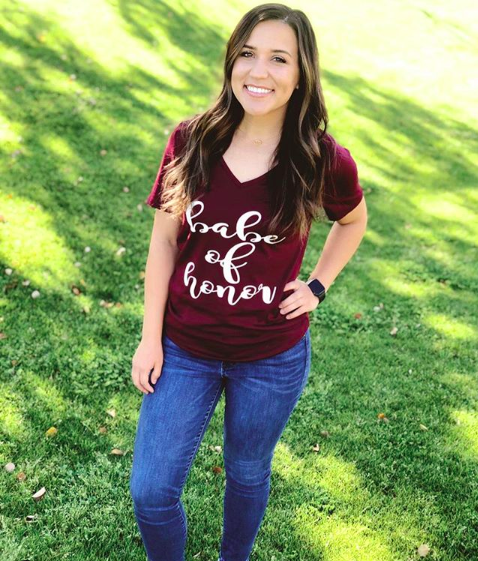
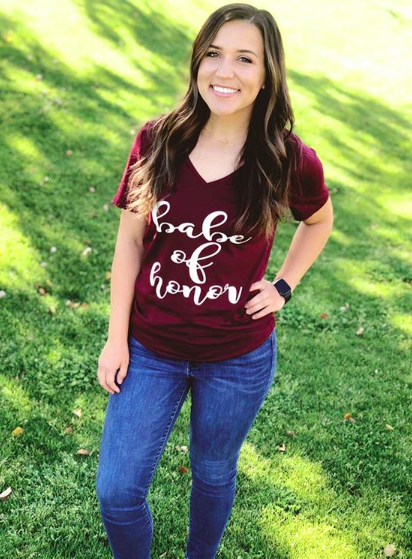
added image overlay

diff --git a/Ellie_main.html b/Ellie_main.html
@@ -160,73 +160,48 @@
       </a>
     </div>
 
-    <!-- Cards -->
-    <div class="row d-flex flex-row mb-4">
-      <div class="col-2">
-        <div class="card border-0 insta-plug">
-          <div class="card-body text-center">
-            <a
-              class="card-title btn"
-              href="https://www.instagram.com/entirely_ellie/"
-              >Follow Us!</a
-            >
-            <p>
-              <img src="/LOGOS/Instagram-Logo copy.png" class="insta-logo" />
-            </p>
+    <!-- Images -->
+    <div class="row d-flex flex-row p-5">
+      <div class="col-4">
+        <div class="c-style">
+          <a href="https://www.instagram.com/entirely_ellie/">
+            <img src="/SHIRTS/Shirt5.png" class="c-image" />
+          </a>
+          <div class="img-overlay">
+            <p class="text">Summer Shirts</p>
           </div>
         </div>
       </div>
       <div class="col-4">
-        <div class="card bg-light text-white c-style1">
-          <img src="/SHIRTS/Shirt5.png" class="card-img" alt="..." />
-          <div class="card-img-overlay">
-            <h5 class="card-title">Card title</h5>
-            <p class="card-text">
-              This is a wider card with supporting text below as a natural
-              lead-in to additional content. This content is a little bit
-              longer.
-            </p>
-            <p class="card-text">Last updated 3 mins ago</p>
+        <div class="c-style">
+          <a href="https://www.instagram.com/entirely_ellie/">
+            <img
+              src="/GIFTS/mug set.png"
+              style="height: 175px; width: auto"
+              class="c-image"
+              alt="..."
+            />
+          </a>
+          <div class="img-overlay">
+            <p class="text">Gifts For a Few</p>
+          </div>
+        </div>
+        <div class="c-style mt-2">
+          <a href="https://www.instagram.com/entirely_ellie/">
+            <img src="/GIFTS/wine glass.png" style="height: 400px; width: auto" class="c-image" alt="..." />
+          </a>
+          <div class="img-overlay">
+            <p class="text">Gifts for One</p>
           </div>
         </div>
       </div>
-      <div class="col-3">
-        <div class="card bg-light text-white c-style2">
-          <img src="/GIFTS/mug set.png" class="card-img" alt="..." />
-          <div class="card-img-overlay">
-            <h5 class="card-title">Card title</h5>
-            <p class="card-text">
-              This is a wider card with supporting text below as a natural
-              lead-in to additional content. This content is a little bit
-              longer.
-            </p>
-            <p class="card-text">Last updated 3 mins ago</p>
-          </div>
-        </div>
-        <div class="card bg-light text-white mt-2 c-style3">
-          <img src="/GIFTS/wine glass.png" class="card-img" alt="..." />
-          <div class="card-img-overlay">
-            <h5 class="card-title">Card title</h5>
-            <p class="card-text">
-              This is a wider card with supporting text below as a natural
-              lead-in to additional content. This content is a little bit
-              longer.
-            </p>
-            <p class="card-text">Last updated 3 mins ago</p>
-          </div>
-        </div>
-      </div>
-      <div class="col-3">
-        <div class="card bg-light text-white c-style2">
-          <img src="/ACCESSORIES/decal.png" class="card-img" alt="..." />
-          <div class="card-img-overlay">
-            <h5 class="card-title">Card title</h5>
-            <p class="card-text">
-              This is a wider card with supporting text below as a natural
-              lead-in to additional content. This content is a little bit
-              longer.
-            </p>
-            <p class="card-text">Last updated 3 mins ago</p>
+      <div class="col-4">
+        <div class="c-style">
+          <a href="https://www.instagram.com/entirely_ellie/">
+            <img src="/ACCESSORIES/decal.png" style="height: 400px; width: auto" class="c-image" alt="..." />
+          </a>
+          <div class="img-overlay">
+            <p class="text">Fun for All!</p>
           </div>
         </div>
       </div>
@@ -279,8 +254,16 @@
               <i class="fab fa-linkedin-in white-text mr-4"> </i>
             </a>
             <!--Instagram-->
-            <a class="ins-ic">
-              <i class="fab fa-instagram white-text"> </i>
+            <a href="https://www.instagram.com/entirely_ellie/" class="follow"
+                        >Follow Us!
+                        <img
+                          src="/LOGOS/Instagram-Logo copy.png"
+                          class="insta-logo"
+                        />
+                    </a>
+                    </div>
+                  </div></div
+              ></i>
             </a>
           </div>
           <!-- Grid column -->

diff --git a/Ellie_main.css b/Ellie_main.css
@@ -15,8 +15,7 @@
 }
 
 /* Insta Nav */
-#v-pills-home-tab {
-  background-color: #f8dceb;
+.follow {
   color: gray;
   font-size: 2;
 }
@@ -48,6 +47,45 @@
 }
 
 /* Card Styles */
+/* .c-style {
+  position: relative;
+  width: 50%;
+} */
+
+.c-image {
+  opacity: 1;
+  display: block;
+  /* width: 100%;
+  height: auto; */
+  transition: 0.5s ease;
+  backface-visibility: hidden;
+  /* margin: 10px; */
+}
+
+.img-overlay {
+  transition: 0.5s ease;
+  opacity: 0;
+  position: absolute;
+  top: 50%;
+  left: 50%;
+  transform: translate(-50%, -50%);
+  -ms-transform: translate(-50%, -50%);
+}
+
+.c-style:hover .c-image {
+  opacity: 0.3;
+}
+
+.c-style:hover .img-overlay {
+  opacity: 1;
+}
+
+.text {
+  color: black;
+  font-size: 25pt;
+  font-family: sans-serif;
+  padding: 16px 32px;
+}
 
 /* Footer Styles */
 
@@ -61,10 +99,10 @@
 }
 
 .synopsis {
-  font-family: cursive;
+  font-family: sans-serif;
 }
 
 .product-links {
-  font-family: cursive;
+  font-family: sans-serif;
   color: black;
 }
